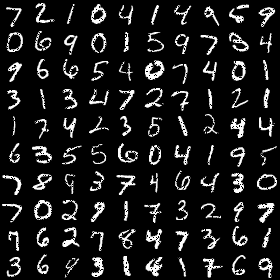
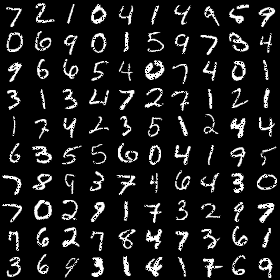
Updated plots

diff --git a/Assignment_2/misc/utils.py b/Assignment_2/misc/utils.py
@@ -12,7 +12,7 @@ def save_images(images, size, image_path, spacing=5):
 
 def merge(images, size, spacing):
     h, w = images.shape[1], images.shape[2]
-    img = np.ones(((h+spacing) * size[0] + spacing, (w+spacing) * size[1] + spacing))
+    img = np.zeros(((h+spacing) * size[0] + spacing, (w+spacing) * size[1] + spacing)) + np.max(images)
 
     for idx, image in enumerate(images):
         i = idx % size[1]

diff --git a/Assignment_2/ae_theano.py b/Assignment_2/ae_theano.py
@@ -7,7 +7,7 @@ from misc.utils import save_images, save_plot
 from theano.sandbox.rng_mrg import MRG_RandomStreams as RandomStreams
 
 corruption_level = 0.1
-training_epochs = 75
+training_epochs = 100
 learning_rate = 0.1
 batch_size = 128
 moment = 0.1
